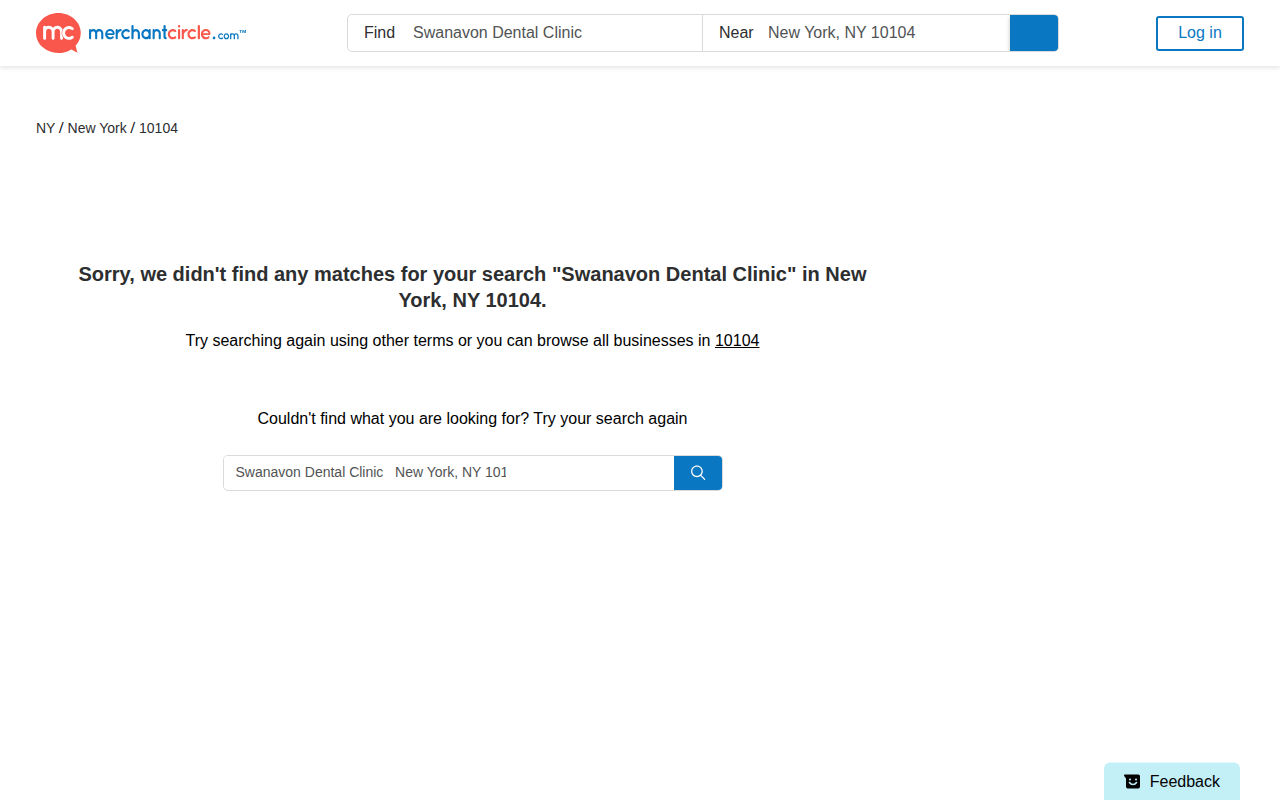
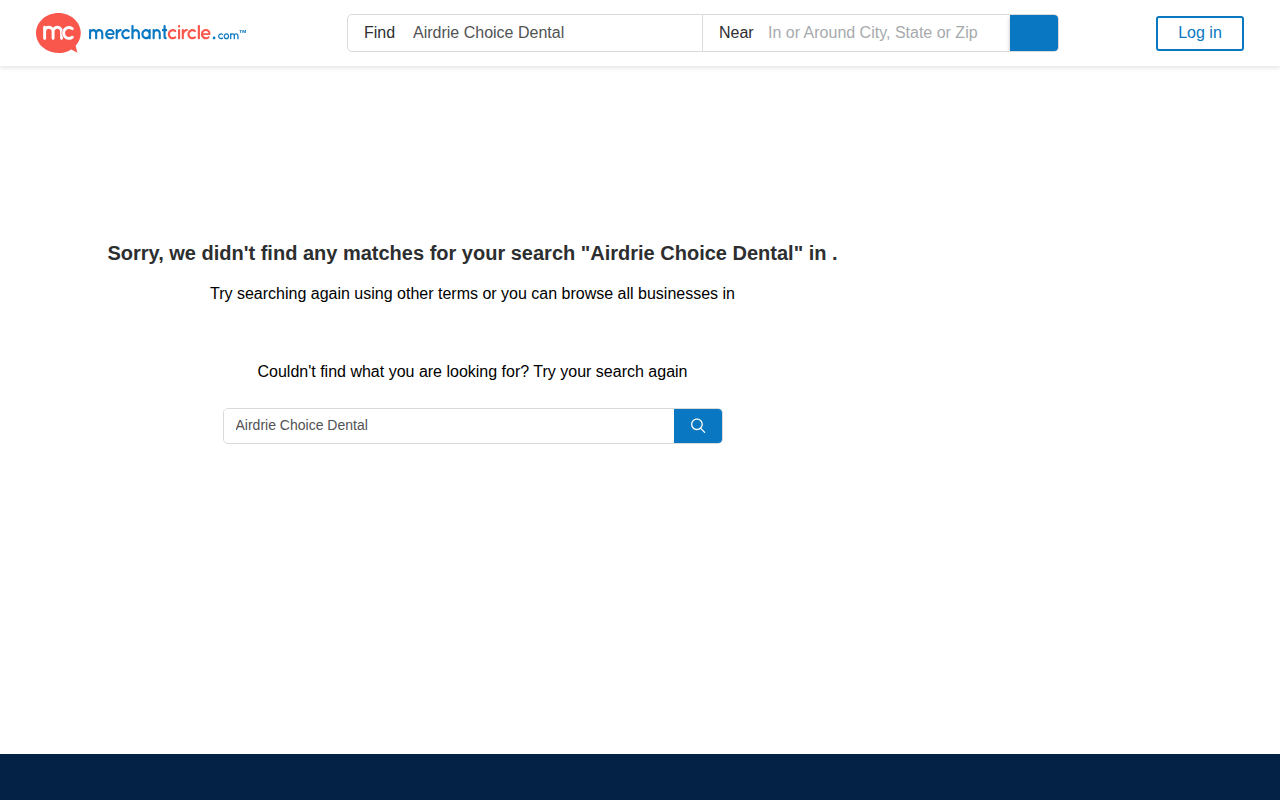
link input field

diff --git a/src/scraper/scraper.service.ts b/src/scraper/scraper.service.ts
@@ -64,7 +64,6 @@ export class ScraperService {
         name: scrapedData.name || '',
         address: scrapedData.address || '',
         phone: scrapedData.phone || '',
-        locationLink: scrapedData.locationLink,
         source: scrapedData.source,
         status: auditStatus,
       };
@@ -114,7 +113,6 @@ export class ScraperService {
       name: '',
       address: '',
       phone: '',
-      locationLink: '',
       source: sourceName,
       status: 'Pending',
       timestamp: new Date().toISOString(),
@@ -147,6 +145,7 @@ export class ScraperService {
     name: string,
     location: string,
     phone: string,
+    locationLink: string,
     onResultReady?: (data: any) => void,
   ): Promise<any[]> {
     // await this.locationRepo.clear();
@@ -154,7 +153,7 @@ export class ScraperService {
     const tasks = [
       {
         promise: this.googleMapsScraperService.scrapeGoogleMaps(
-          `${name} ${location}`,
+          `${name} ${location} `,
         ),
         source: 'Google Maps',
       },
@@ -227,6 +226,8 @@ export class ScraperService {
 
       const syncedData = await this.syncWithDatabase(item, auditResult.status);
 
+      // console.log('item', item);
+
       let finalResult;
 
       if (isEmpty) {
@@ -261,7 +262,11 @@ export class ScraperService {
         finalResult = {
           scraped:
             auditResult.status === 'Verified'
-              ? { name: item.name, phone: item.phone, address: item.address }
+              ? {
+                  name: item.name,
+                  phone: item.phone,
+                  address: item.address,
+                }
               : {},
           meta: {
             source: item.source,
@@ -327,13 +332,6 @@ export class ScraperService {
 
     const inputPhoneClean = cleanPhone(inputPhone);
     const scrapedPhoneClean = cleanPhone(scraped.phone);
-
-    // const cleanStr = (s: any) =>
-    //   s
-    //     ? String(s)
-    //         .toLowerCase()
-    //         .replace(/[^a-z0-9]/g, '')
-    //     : '';
 
     // Name Match
     const isNameMatch = checkNameMatch(scraped.name, inputName);

diff --git a/src/scraper/dto/scrape-request.dto.ts b/src/scraper/dto/scrape-request.dto.ts
@@ -13,4 +13,8 @@ export class ScrapeRequestDto {
   @IsString()
   @IsOptional()
   phone: string;
+
+  @IsString()
+  @IsOptional()
+  locationLink: string;
 }

diff --git a/src/scraper/scraper.controller.ts b/src/scraper/scraper.controller.ts
@@ -1,4 +1,3 @@
-/* eslint-disable @typescript-eslint/no-unsafe-argument */
 import {
   Body,
   Controller,
@@ -19,6 +18,7 @@ export class ScraperController {
       scrapeDto.name,
       scrapeDto.location,
       scrapeDto.phone,
+      scrapeDto.locationLink,
     );
   }
 }

diff --git a/src/scraper/scraper.gateway.ts b/src/scraper/scraper.gateway.ts
@@ -31,8 +31,8 @@ export class ScraperGateway {
       data.name,
       data.location,
       data.phone,
+      data.locationLink,
       (singleResult) => {
-        // Jaise hi ek source khatam hoga, ye block chalega
         client.emit('dataChunk', singleResult);
       },
     );